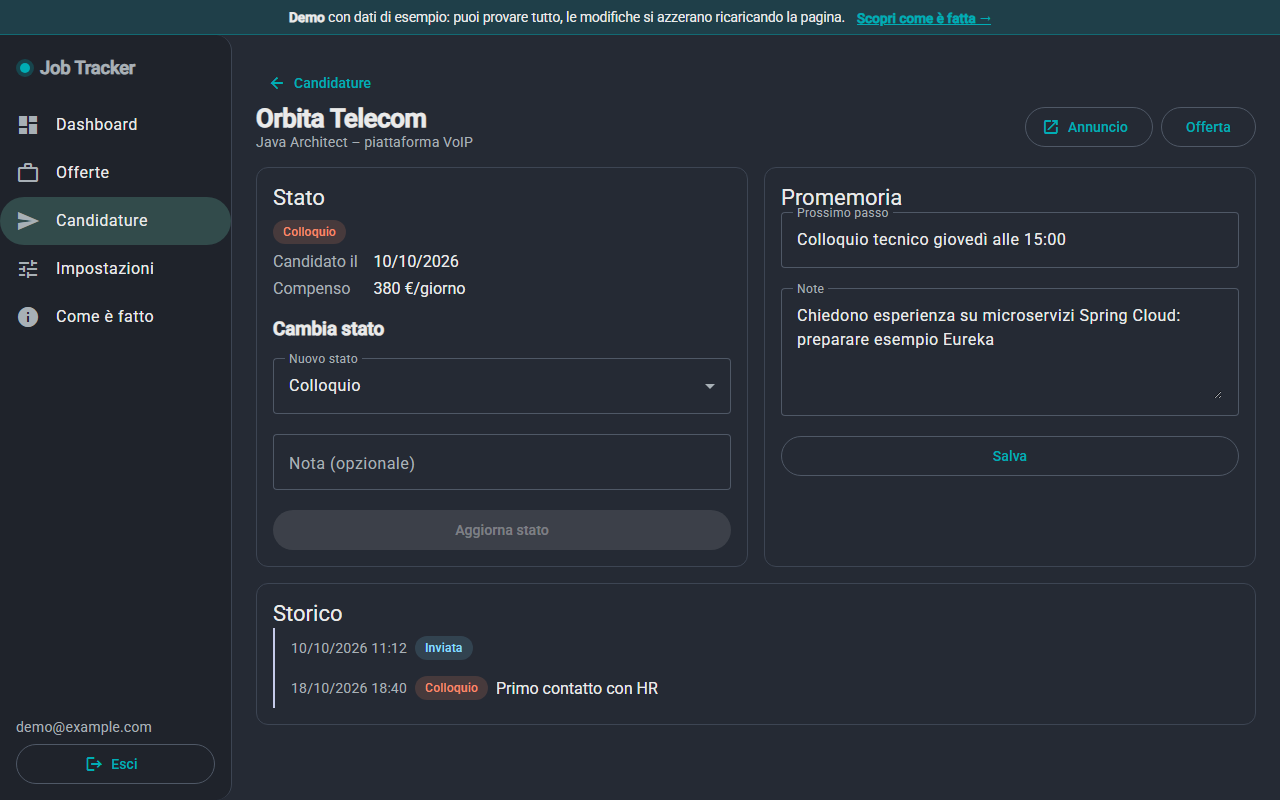
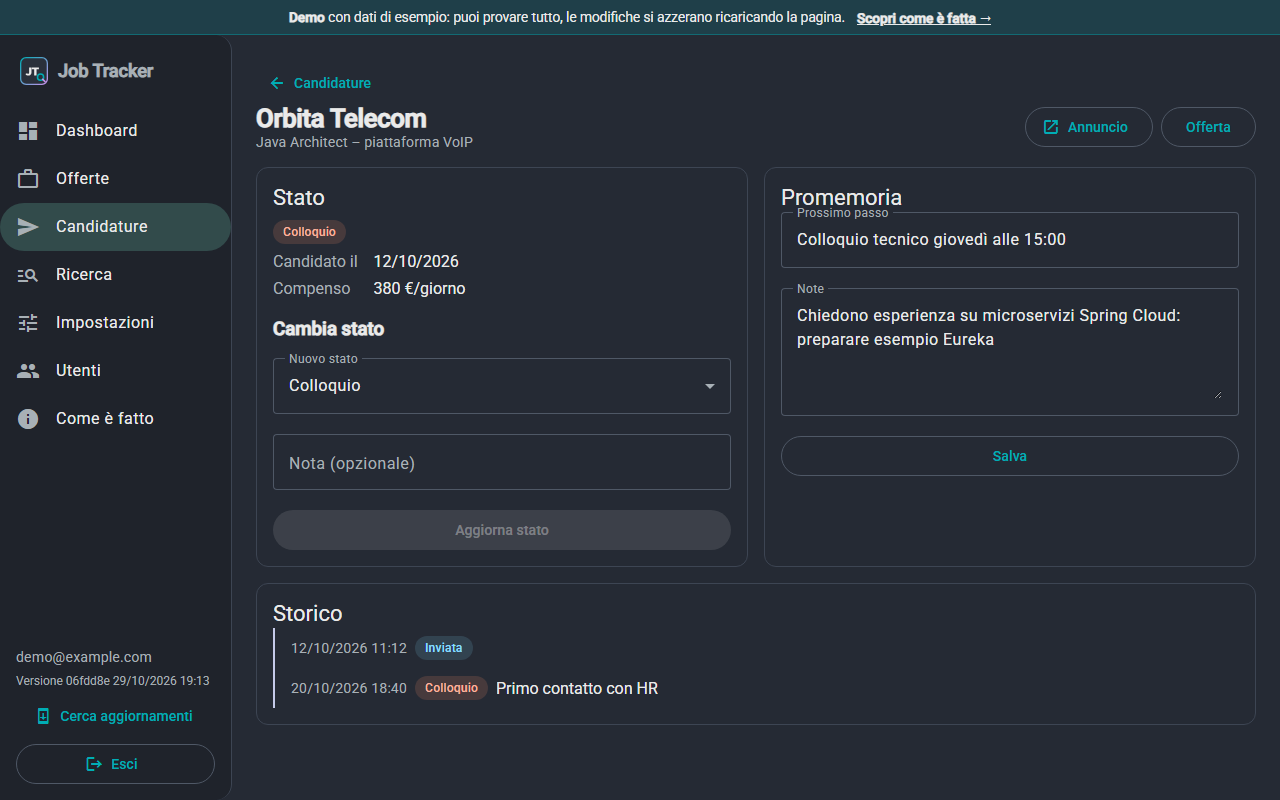
Lavori: Job Tracker aggiornato (piu' utenti, CV cifrato, timer AWS, test di intrusione, 27 problemi) e schermate nuove

diff --git a/_pages/lavori.md b/_pages/lavori.md
@@ -11,7 +11,7 @@ Una selezione di progetti personali che mostrano come lavoro: dall'analisi alla 
 
 ## Job Tracker
 
-**Applicazione web full stack per gestire una ricerca di lavoro**: un agente automatico trova nuove offerte due volte al giorno, l'app tiene traccia delle candidature e del loro stato e invia un riepilogo via email.
+**Applicazione web full stack per gestire una ricerca di lavoro**: un agente AI cerca e verifica nuove offerte due volte al giorno per ogni utente, secondo i suoi criteri; l'app tiene traccia delle candidature e del loro stato e invia un riepilogo via email.
 
 [Prova la demo](https://mauriziogiacomelli.github.io/job-tracker-demo/){: .btn .btn--primary .btn--large}
 [Come è fatto](https://mauriziogiacomelli.github.io/job-tracker-demo/#/come-e-fatto){: .btn .btn--inverse .btn--large}
@@ -23,10 +23,13 @@ La demo è navigabile senza registrazione e usa dati di esempio inventati: si po
 
 ### Cosa fa
 
-- Raccoglie le offerte trovate da un **agente di ricerca automatico** (ogni giorno alle 7:30 e alle 19:30), evitando i doppioni
+- Raccoglie le offerte trovate da un **agente di ricerca automatico** (ogni giorno alle 7:30 e alle 19:30, avviato da un timer AWS puntuale al minuto), evitando i doppioni e senza riaprire gli annunci già scartati
+- **Verifica ogni annuncio**: data, contratto, compenso e requisiti, con la corrispondenza rispetto al profilo e cosa manca
+- **Più utenti**, ognuno con le sue ricerche, offerte ed email; l'amministratore invita gli utenti e decide quanti possono essercene
+- **CV facoltativo**: letto nel browser, l'agente propone profilo e parole chiave per la ricerca
 - Mostra le offerte con **filtri, ordinamento e paginazione**: compenso, modalità di lavoro, data di pubblicazione, grado di corrispondenza con il profilo
 - Gestisce le **candidature** con lo storico dei cambi di stato e segnala quelle da sollecitare
-- Permette di configurare l'**email di riepilogo**: quali giri, quali sezioni, quale soglia di interesse
+- Permette di configurare l'**email di riepilogo**: quali giri, quali sezioni, quale soglia di interesse; se spegni l'email di un giro, quel giro non si fa
 - Funziona su PC e **su telefono**, installabile come app (PWA)
 
 ### Architettura e tecnologie
@@ -36,18 +39,22 @@ La demo è navigabile senza registrazione e usa dati di esempio inventati: si po
 | Frontend | Angular 19 (standalone, signals), Angular Material, PWA |
 | Backend | Java 21, Spring Boot 4, Spring Data JPA, Spring Security (OAuth2 resource server), Flyway |
 | Dati | PostgreSQL serverless (Neon) |
-| Cloud | AWS Lambda con SnapStart, API Gateway, Amazon Cognito, S3 e CloudFront, SSM Parameter Store |
+| Cloud | AWS Lambda con SnapStart, API Gateway, Amazon Cognito (managed login), EventBridge Scheduler, SSM Parameter Store; frontend su GitHub Pages |
+| Agente | Routine Claude nel cloud, avviata dal timer AWS, che lavora sull'API con un token dedicato |
 | Infrastruttura | AWS CDK in Java (infrastruttura come codice) |
-| Qualità | Test di integrazione con Testcontainers su PostgreSQL reale, test unitari Angular |
+| Qualità | Test di integrazione con Testcontainers su PostgreSQL reale, test unitari Angular, test end-to-end con verifica dell'accessibilità (Cypress + axe) |
 
 **Costo di esercizio: 0 € al mese**, grazie a servizi serverless che si pagano solo quando vengono usati.
 
 ### Punti di interesse tecnico
 
 - **Sicurezza senza password nel backend**: login con OpenID Connect (authorization code + PKCE) e API che accetta solo token JWT firmati, verificati su issuer, scadenza, tipo e client
-- **Privilegio minimo**: l'agente automatico usa un token "macchina" che può registrare offerte ma non modificare candidature o impostazioni; ogni regola è coperta da un test
+- **Privilegio minimo**: l'agente automatico usa un token "macchina" che può registrare offerte ma non modificare candidature o impostazioni, e non ottiene mai i permessi di amministratore; ogni regola è coperta da un test
+- **Dati separati per utente** con la multi-tenancy di Hibernate: nessun utente vede i dati di un altro, nemmeno conoscendone gli identificativi
+- **CV cifrato** nel database con AES-256-GCM, con la chiave conservata separatamente in AWS; all'agente arrivano solo estratti senza recapiti
+- **Sicurezza verificata** con test di intrusione sull'ambiente reale e revisione del codice
 - **Spring Boot su AWS Lambda**: avvio rapido con SnapStart e gestione corretta delle connessioni al database attorno allo snapshot
-- **19 problemi reali risolti e documentati** durante lo sviluppo (sintomo, causa, soluzione e motivazione), consultabili nella pagina [Come è fatto](https://mauriziogiacomelli.github.io/job-tracker-demo/#/come-e-fatto)
+- **27 problemi reali risolti e documentati** durante lo sviluppo (sintomo, causa, soluzione e motivazione), consultabili nella pagina [Come è fatto](https://mauriziogiacomelli.github.io/job-tracker-demo/#/come-e-fatto)
 
 <figure class="half">
   <img src="/assets/images/lavori/job-tracker-candidatura.png" alt="Dettaglio di una candidatura con storico degli stati">
